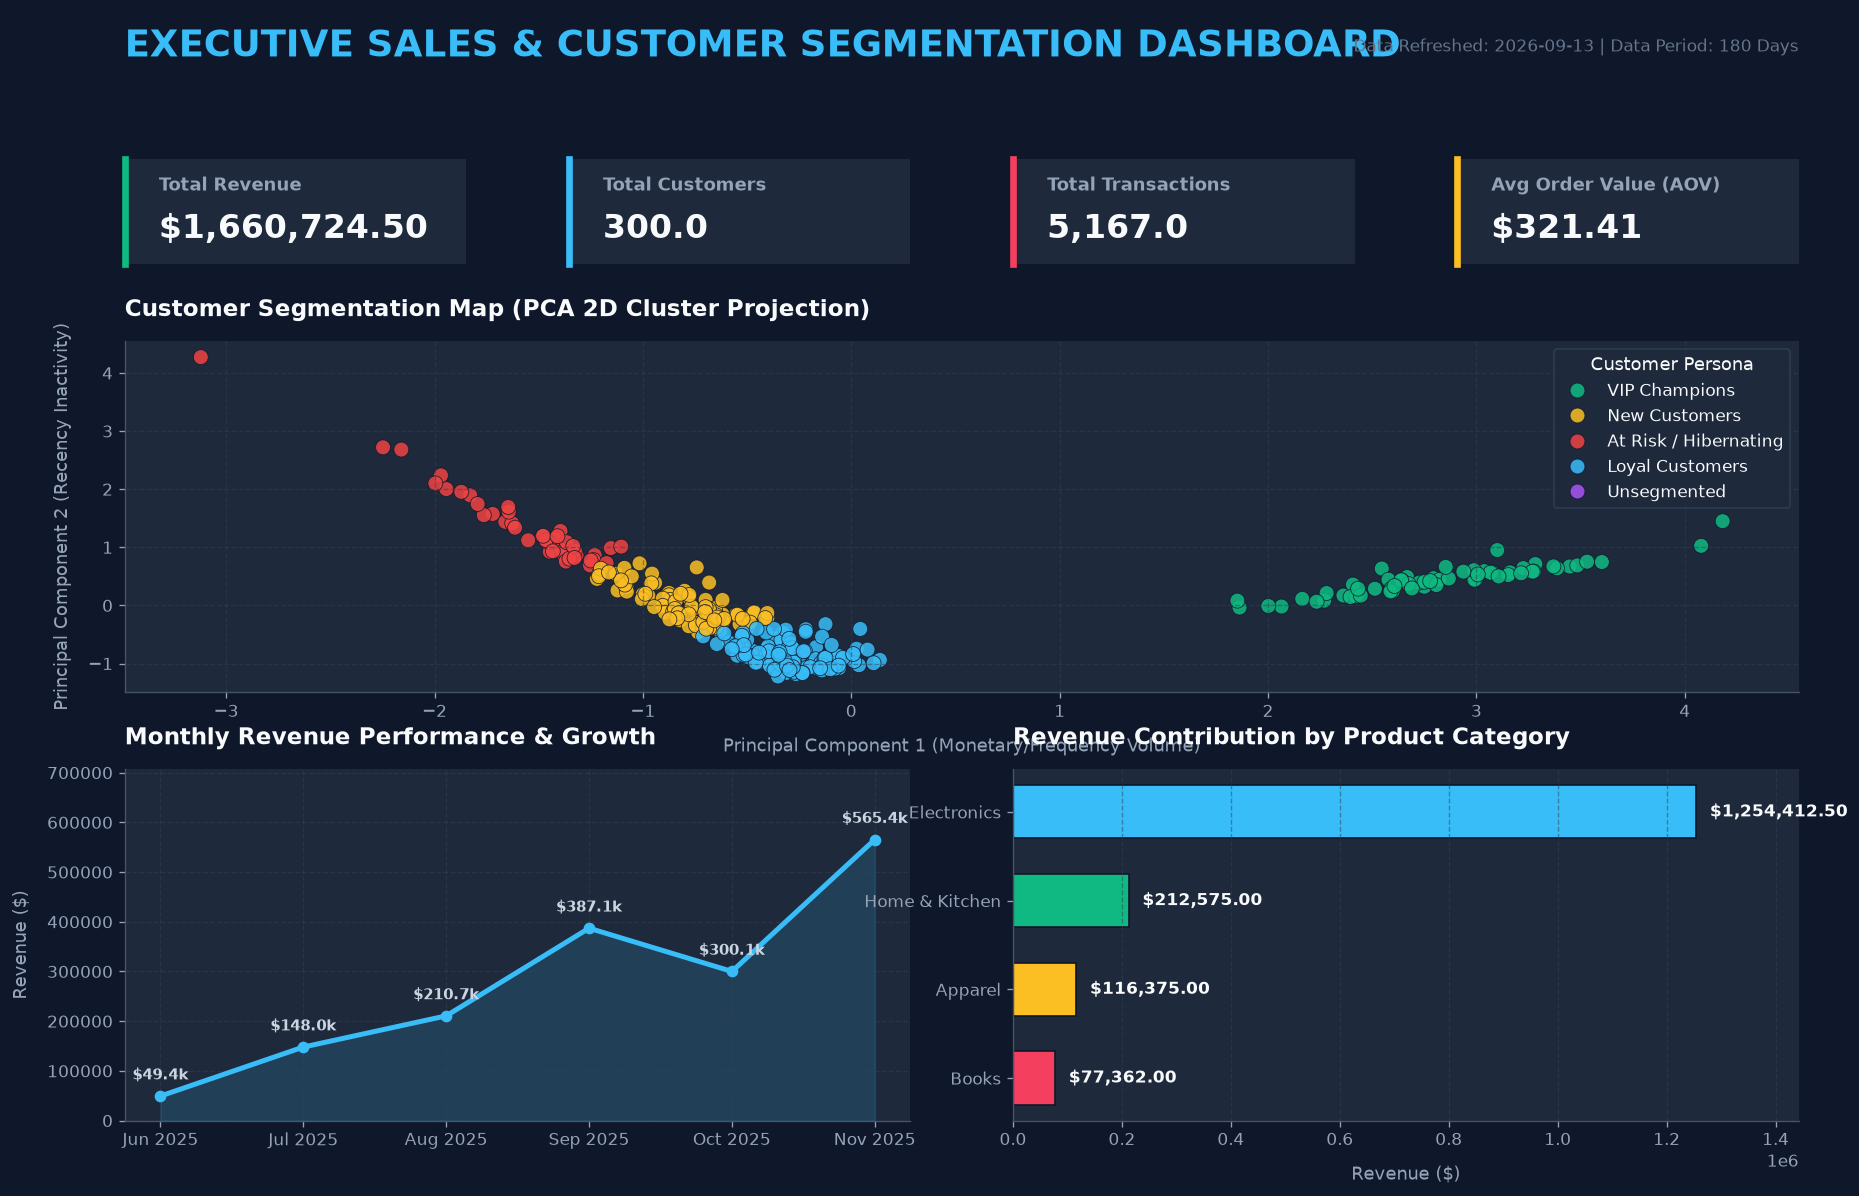
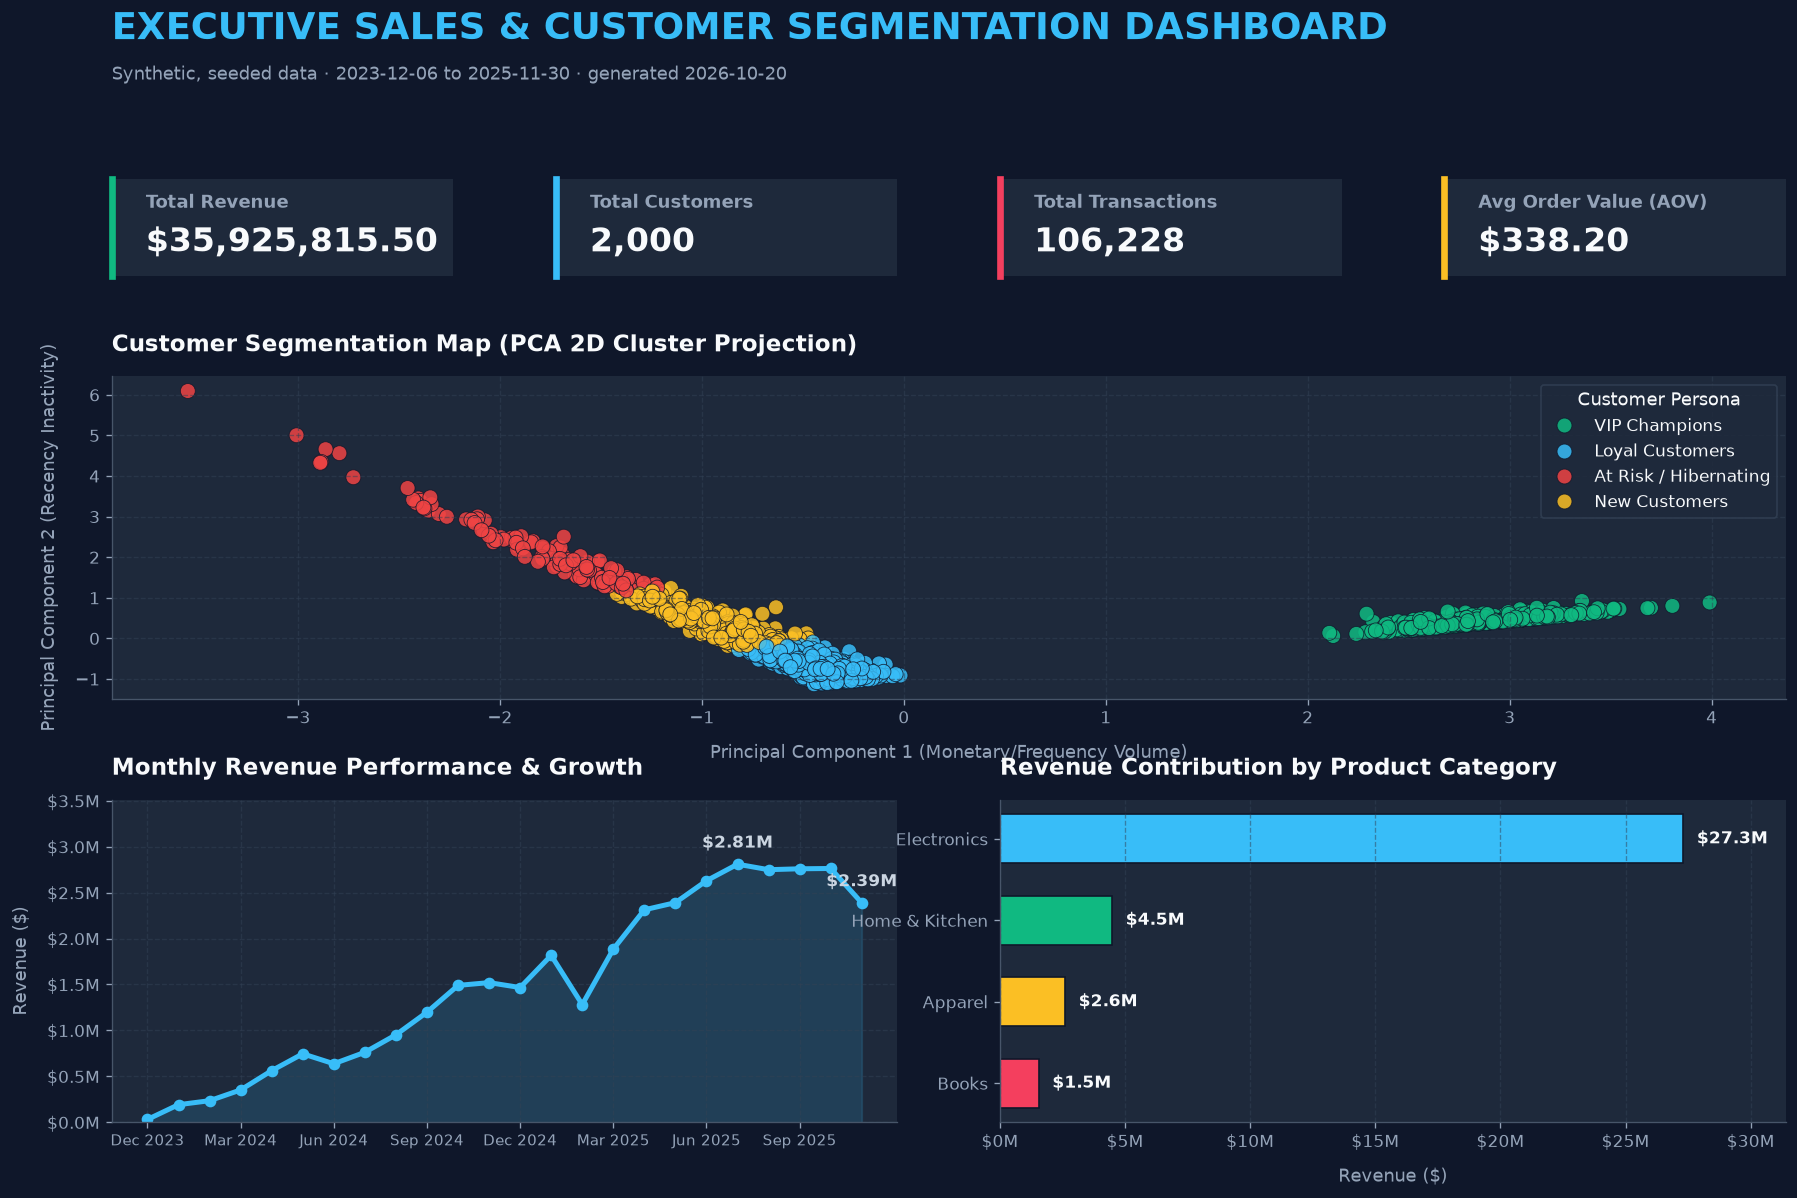
Generate 106k transactions over two years and report the variance the clusters actually explain
The generator now builds the sales table with vectorised numpy instead of a per-row loop, so two years of data for 2,000 customers
takes seconds, and draws customer names from a pool large enough to keep every email unique. Segmentation prints the share of
variance explained by the 4 clusters (93.9%) and kept by the PCA view, the dashboard preview labels its real date range and reads
cleanly at 24 months, and a test keeps the fact table above 100k rows.

diff --git a/etl/pipeline.py b/etl/pipeline.py
@@ -10,7 +10,8 @@ from sqlalchemy import create_engine
 np.random.seed(42)
 random.seed(42)
 
-def generate_synthetic_raw_data(num_customers=300, num_products=20, days=180, end_date_str="2025-12-01"):
+def generate_synthetic_raw_data(num_customers=2000, num_products=20, days=730, end_date_str="2025-12-01",
+                                daily_tx_range=(120, 170)):
     """
     Generates realistic sales transaction data using Pareto distribution (80/20 rule).
     Also introduces some missing/dirty data to demonstrate ETL cleaning capabilities.
@@ -26,13 +27,20 @@ def generate_synthetic_raw_data(num_customers=300, num_products=20, days=180, en
         "Anthony Thompson", "Mark White", "Donald Harris", "Steven Sanchez", "Paul Clark",
         "Andrew Ramirez", "Joshua Lewis", "Kenneth Robinson", "Kevin Walker", "Brian Young"
     ]
-    # Expand customer names list to num_customers
-    while len(customer_names) < num_customers:
-        first = random.choice(customer_names).split()[0]
-        last = random.choice(["Hall", "Allen", "Young", "King", "Wright", "Lopez", "Hill", "Scott", "Green", "Adams", "Baker"])
-        name = f"{first} {last}"
-        if name not in customer_names:
-            customer_names.append(name)
+    # Expand customer names list to num_customers (every first/last combination is unique, so emails stay unique)
+    first_names = sorted({n.split()[0] for n in customer_names})
+    last_names = ["Hall", "Allen", "Young", "King", "Wright", "Lopez", "Hill", "Scott", "Green", "Adams", "Baker",
+                  "Nelson", "Carter", "Mitchell", "Roberts", "Turner", "Phillips", "Campbell", "Parker", "Evans", "Edwards",
+                  "Collins", "Stewart", "Morris", "Rogers", "Reed", "Cook", "Morgan", "Bell", "Murphy", "Bailey", "Rivera",
+                  "Cooper", "Richardson", "Cox", "Howard", "Ward", "Torres", "Peterson", "Gray", "Ramos", "James", "Watson",
+                  "Brooks", "Kelly", "Sanders", "Price", "Bennett", "Wood", "Barnes", "Ross", "Henderson", "Coleman",
+                  "Jenkins", "Perry", "Powell", "Long", "Patterson", "Hughes", "Flores", "Washington", "Butler", "Simmons",
+                  "Foster", "Gonzales", "Bryant", "Alexander", "Russell", "Griffin", "Diaz", "Hayes", "Myers", "Ford"]
+    pool = [f"{f} {l}" for f in first_names for l in last_names if f"{f} {l}" not in customer_names]
+    random.shuffle(pool)
+    if len(customer_names) + len(pool) < num_customers:
+        raise ValueError(f"Only {len(customer_names) + len(pool)} unique names available for {num_customers} customers")
+    customer_names = customer_names + pool[: num_customers - len(customer_names)]
             
     end_date = datetime.strptime(end_date_str, "%Y-%m-%d")
     start_date = end_date - timedelta(days=days)
@@ -42,7 +50,7 @@ def generate_synthetic_raw_data(num_customers=300, num_products=20, days=180, en
     for i in range(1, num_customers + 1):
         name = customer_names[i-1]
         email = f"{name.lower().replace(' ', '.')}@example.com"
-        # Join date is spread across the 180 days
+        # Join date is spread across the simulated period
         joined_days_offset = random.randint(0, days - 10)
         joined_date = (start_date + timedelta(days=joined_days_offset)).strftime("%Y-%m-%d")
         customers_data.append({
@@ -92,45 +100,28 @@ def generate_synthetic_raw_data(num_customers=300, num_products=20, days=180, en
     customer_probs[:num_top] = 0.8 / num_top
     customer_probs[num_top:] = 0.2 / len(other_customer_ids)
     
-    # Simulate daily transactions
-    sales_data = []
-    sale_id = 1
-    
-    for day in range(days):
-        current_date = start_date + timedelta(days=day)
-        # Number of transactions per day
-        num_tx = random.randint(10, 45)
-        
-        for _ in range(num_tx):
-            # Select customer based on Pareto weights
-            cust_id = np.random.choice(df_customers['customer_id'].values, p=customer_probs)
-            
-            # Ensure customer joined before or on purchase date
-            cust_join_date = datetime.strptime(df_customers.loc[df_customers['customer_id'] == cust_id, 'joined_date'].values[0], "%Y-%m-%d")
-            if current_date < cust_join_date:
-                # If they hadn't joined yet, set purchase date to their join date or later
-                tx_date = cust_join_date
-            else:
-                tx_date = current_date
-                
-            prod_idx = random.randint(0, len(df_products) - 1)
-            prod = df_products.iloc[prod_idx]
-            
-            # Quantity sold (skewed towards 1 or 2)
-            units = int(np.random.choice([1, 2, 3, 4, 5], p=[0.6, 0.25, 0.1, 0.04, 0.01]))
-            
-            sales_data.append({
-                "sale_id": sale_id,
-                "customer_id": int(cust_id),
-                "product_id": int(prod['product_id']),
-                "units_sold": units,
-                # Total price will be re-calculated during ETL based on actual product price
-                "total_price": None, 
-                "sale_date": tx_date.strftime("%Y-%m-%d")
-            })
-            sale_id += 1
-            
-    df_sales = pd.DataFrame(sales_data)
+    # Simulate daily transactions (vectorised: about 105,000 rows for the default two years)
+    tx_per_day = np.random.randint(daily_tx_range[0], daily_tx_range[1] + 1, size=days)
+    day_offsets = np.repeat(np.arange(days), tx_per_day)
+    n_tx = len(day_offsets)
+    cust_ids = np.random.choice(df_customers['customer_id'].values, size=n_tx, p=customer_probs)
+    tx_dates = start_date + pd.to_timedelta(day_offsets, unit="D")
+    # A customer can't buy before joining: such purchases move to the join date
+    join_dates = pd.to_datetime(df_customers.set_index('customer_id')['joined_date']).reindex(cust_ids).values
+    tx_dates = np.maximum(tx_dates.values, join_dates)
+    prod_ids = np.random.randint(1, len(df_products) + 1, size=n_tx)
+    # Quantity sold (skewed towards 1 or 2)
+    units = np.random.choice([1, 2, 3, 4, 5], size=n_tx, p=[0.6, 0.25, 0.1, 0.04, 0.01]).astype(float)
+
+    df_sales = pd.DataFrame({
+        "sale_id": np.arange(1, n_tx + 1),
+        "customer_id": cust_ids.astype(int),
+        "product_id": prod_ids.astype(int),
+        "units_sold": units,
+        # Total price is re-calculated during ETL from the cleaned product price
+        "total_price": None,
+        "sale_date": pd.to_datetime(tx_dates).strftime("%Y-%m-%d"),
+    })
     
     # Randomly inject some NaN units_sold to simulate cleaning
     # We will resolve this during ETL

diff --git a/viz/dashboard_export.py b/viz/dashboard_export.py
@@ -4,6 +4,7 @@ from datetime import datetime
 import numpy as np
 import pandas as pd
 import matplotlib.pyplot as plt
+from matplotlib.ticker import FuncFormatter
 import seaborn as sns
 
 def generate_dashboard():
@@ -35,7 +36,9 @@ def generate_dashboard():
             SUM(total_price) as total_revenue,
             COUNT(sale_id) as total_orders,
             SUM(units_sold) as total_units,
-            (SELECT COUNT(*) FROM dim_customers) as total_customers
+            (SELECT COUNT(*) FROM dim_customers) as total_customers,
+            MIN(sale_date) as first_sale,
+            MAX(sale_date) as last_sale
         FROM fact_sales
     """, conn).iloc[0]
     
@@ -89,22 +92,23 @@ def generate_dashboard():
     
     # Gridspec layout
     # 4 rows: Row 0 is title, Row 1 is KPIs, Row 2 is PCA Scatter, Row 3 is Line & Bar charts
-    gs = fig.add_gridspec(4, 4, height_ratios=[0.08, 0.12, 0.40, 0.40], hspace=0.35, wspace=0.3)
+    gs = fig.add_gridspec(4, 4, height_ratios=[0.08, 0.12, 0.40, 0.40], hspace=0.5, wspace=0.3)
     
     # A. Dashboard Title
     title_ax = fig.add_subplot(gs[0, :], facecolor='none')
     title_ax.axis('off')
-    title_ax.text(0.0, 0.5, "EXECUTIVE SALES & CUSTOMER SEGMENTATION DASHBOARD", 
+    title_ax.text(0.0, 0.75, "EXECUTIVE SALES & CUSTOMER SEGMENTATION DASHBOARD",
                   fontsize=22, fontweight='bold', color='#38bdf8', va='center')
-    title_ax.text(1.0, 0.5, f"Data Refreshed: {datetime.now().strftime('%Y-%m-%d')} | Data Period: 180 Days", 
-                  fontsize=10, color='#64748b', ha='right', va='center')
+    period = f"{kpis['first_sale']} to {kpis['last_sale']}"
+    title_ax.text(0.0, 0.05, f"Synthetic, seeded data · {period} · generated {datetime.now().strftime('%Y-%m-%d')}",
+                  fontsize=11, color='#94a3b8', va='center')
     
     # B. KPI Cards (4 subplots in row 1)
     kpi_labels = ["Total Revenue", "Total Customers", "Total Transactions", "Avg Order Value (AOV)"]
     kpi_values = [
         f"${kpis['total_revenue']:,.2f}",
-        f"{kpis['total_customers']:,}",
-        f"{kpis['total_orders']:,}",
+        f"{int(kpis['total_customers']):,}",
+        f"{int(kpis['total_orders']):,}",
         f"${kpis['total_revenue'] / kpis['total_orders']:.2f}"
     ]
     kpi_colors = ["#10b981", "#38bdf8", "#f43f5e", "#fbbf24"]
@@ -168,16 +172,16 @@ def generate_dashboard():
     ax_trend.plot(month_names, df_monthly['revenue'], marker='o', linewidth=3, color='#38bdf8', label="Monthly Revenue")
     ax_trend.fill_between(month_names, df_monthly['revenue'], alpha=0.15, color='#38bdf8')
     
-    # Adding data labels on line chart
-    for i, val in enumerate(df_monthly['revenue']):
-        ax_trend.annotate(f"${val/1000:.1f}k", 
-                          (month_names[i], val), 
-                          textcoords="offset points", 
-                          xytext=(0,10), 
-                          ha='center', 
-                          fontsize=9,
-                          fontweight='semibold',
-                          color='#cbd5e1')
+    # Label only the peak month and the latest month; every month gets a marker
+    peak = int(df_monthly['revenue'].idxmax())
+    for i in sorted({peak, len(df_monthly) - 1}):
+        val = df_monthly['revenue'].iloc[i]
+        ax_trend.annotate(f"${val/1e6:.2f}M", (month_names[i], val), textcoords="offset points", xytext=(0, 10),
+                          ha='center', fontsize=10, fontweight='semibold', color='#cbd5e1')
+    # One tick label per quarter keeps 24 months readable
+    ax_trend.set_xticks(range(0, len(month_names), 3))
+    ax_trend.set_xticklabels(month_names[::3], fontsize=9)
+    ax_trend.yaxis.set_major_formatter(FuncFormatter(lambda v, _: f"${v/1e6:.1f}M"))
                           
     ax_trend.set_ylabel("Revenue ($)", fontsize=11, labelpad=10)
     ax_trend.grid(True)
@@ -199,7 +203,7 @@ def generate_dashboard():
         width = bar.get_width()
         ax_cat.text(width + (df_categories['revenue'].max() * 0.02), 
                     bar.get_y() + bar.get_height()/2, 
-                    f"${width:,.2f}", 
+                    f"${width/1e6:.1f}M", 
                     ha='left', 
                     va='center', 
                     fontsize=10, 
@@ -207,6 +211,7 @@ def generate_dashboard():
                     color='#f8fafc')
                     
     ax_cat.set_xlabel("Revenue ($)", fontsize=11, labelpad=10)
+    ax_cat.xaxis.set_major_formatter(FuncFormatter(lambda v, _: f"${v/1e6:.0f}M"))
     ax_cat.grid(True, axis='x')
     ax_cat.set_xlim(0, df_categories['revenue'].max() * 1.15)
     ax_cat.invert_yaxis() # Display top category at the top

diff --git a/models/segmentation.py b/models/segmentation.py
@@ -71,6 +71,10 @@ def run_customer_segmentation():
     print("Running K-Means clustering (k=4)...")
     kmeans = KMeans(n_clusters=4, random_state=42, n_init=10)
     rfm['cluster'] = kmeans.fit_predict(rfm_scaled)
+    # Share of the total variance in the scaled RFM features explained by the 4 clusters (between-cluster / total sum of squares)
+    total_ss = float(((rfm_scaled - rfm_scaled.mean(axis=0)) ** 2).sum())
+    cluster_variance_explained = 1 - kmeans.inertia_ / total_ss
+    print(f"Variance explained by the 4 clusters: {cluster_variance_explained:.1%}")
     
     # Define Segment names based on average stats of each cluster
     # Let's inspect centroids to name them logically:
@@ -131,6 +135,7 @@ def run_customer_segmentation():
     rfm_pca = pca.fit_transform(rfm_scaled)
     rfm['pca_1'] = rfm_pca[:, 0]
     rfm['pca_2'] = rfm_pca[:, 1]
+    print(f"Variance kept by the 2-D PCA view: {pca.explained_variance_ratio_.sum():.1%}")
     
     # 7. Save segment and PCA columns back to the SQLite Database
     print("Updating customer database with segment designations...")

diff --git a/tests/test_segmentation.py b/tests/test_segmentation.py
@@ -64,6 +64,13 @@ class TestSegmentation(unittest.TestCase):
         self.assertGreater(total, 0)
         self.assertEqual(unlabeled, 0, "Some purchasing customers have no segment assigned.")
 
+    def test_fact_table_holds_over_100k_transactions(self):
+        # The README and profile describe a star schema over 100k+ transactions; keep that true.
+        conn = sqlite3.connect(DB_PATH)
+        count = conn.execute("SELECT COUNT(*) FROM fact_sales").fetchone()[0]
+        conn.close()
+        self.assertGreaterEqual(count, 100_000)
+
 
 if __name__ == "__main__":
     unittest.main()

diff --git a/README.md b/README.md
@@ -7,11 +7,11 @@ and feeds an interactive Power BI report.
 
 ## Highlights
 
-- **Star schema** for sales transactions, built for BI reporting.
-- **RFM + K-Means:** scaled RFM features clustered into 4 customer personas capturing 92% of the variance, with PCA for the 2-D view.
+- **Star schema** (`fact_sales` plus customer and product dimensions) holding 106,228 synthetic transactions for BI reporting.
+- **RFM + K-Means:** scaled RFM features clustered into 4 customer personas; the clusters explain 93.9% of the variance in the scaled RFM features, and a 2-D PCA view keeps 99.6% of it.
 - **Power BI report** (`powerbi/sales_dashboard.pbix`): star-schema relationships, DAX measures, a K-Means cluster scatter plot and a
   persona slicer.
-- **Pareto analysis** isolates the customer segments that drive most revenue.
+- **Pareto analysis:** the top 20% of customers bring in 79.9% of revenue, and the analysis isolates the segments behind it.
 - **A bug found and fixed:** the persona mapping let two personas collapse onto one cluster, silently dropping "VIP Champions". It now
   asserts that every persona is assigned, and `tests/test_segmentation.py` covers it.
 
@@ -46,4 +46,6 @@ Open `powerbi/sales_dashboard.pbix` in Power BI Desktop for the interactive repo
 
 ## Data
 
-Transactions are generated by the pipeline (synthetic, seeded: 300 customers, 20 products, 180 days), not a real retailer's data.
+Transactions are generated by the pipeline (synthetic, seeded): 2,000 customers, 20 products and 106,228 transactions over two years
+(2023-12-06 to 2025-11-30), drawn so that 20% of customers account for about 80% of purchases. It is not a real retailer's data.
+The generator is vectorised, so the full run takes a few seconds.
